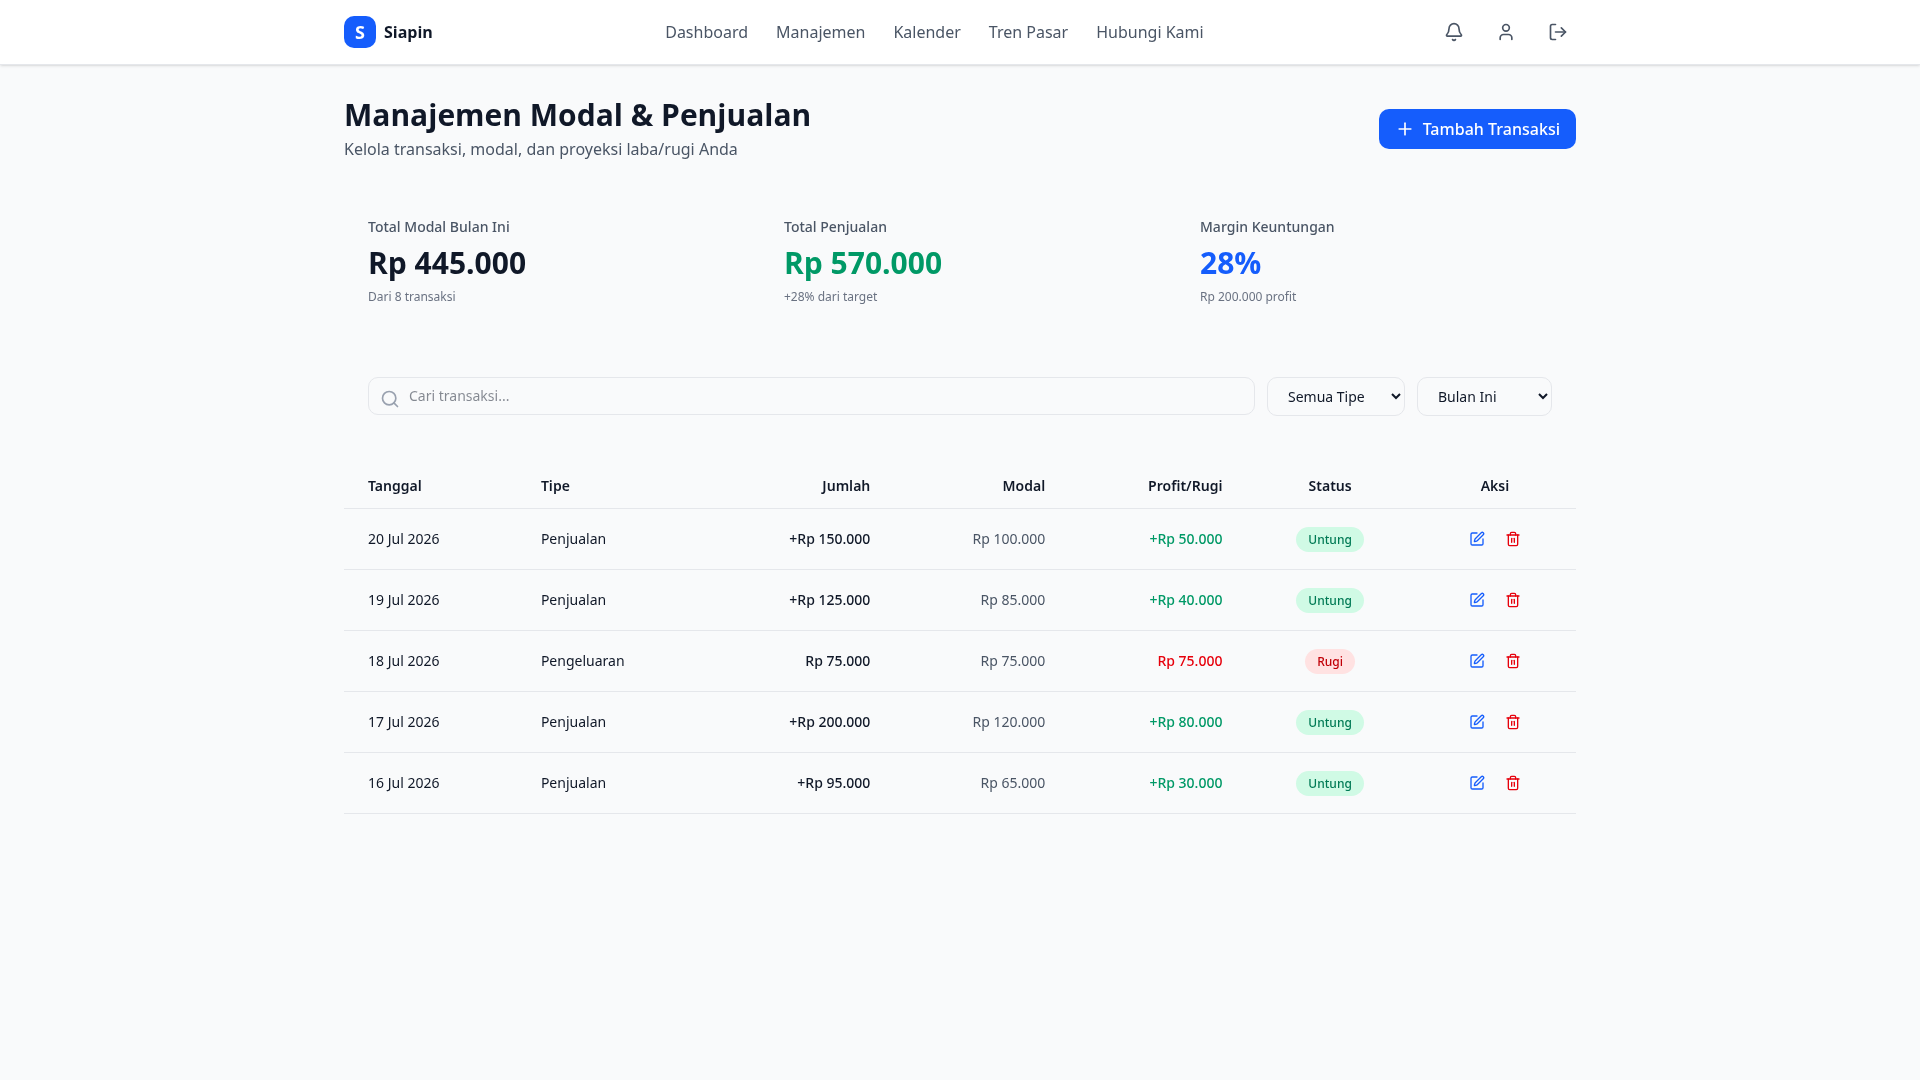
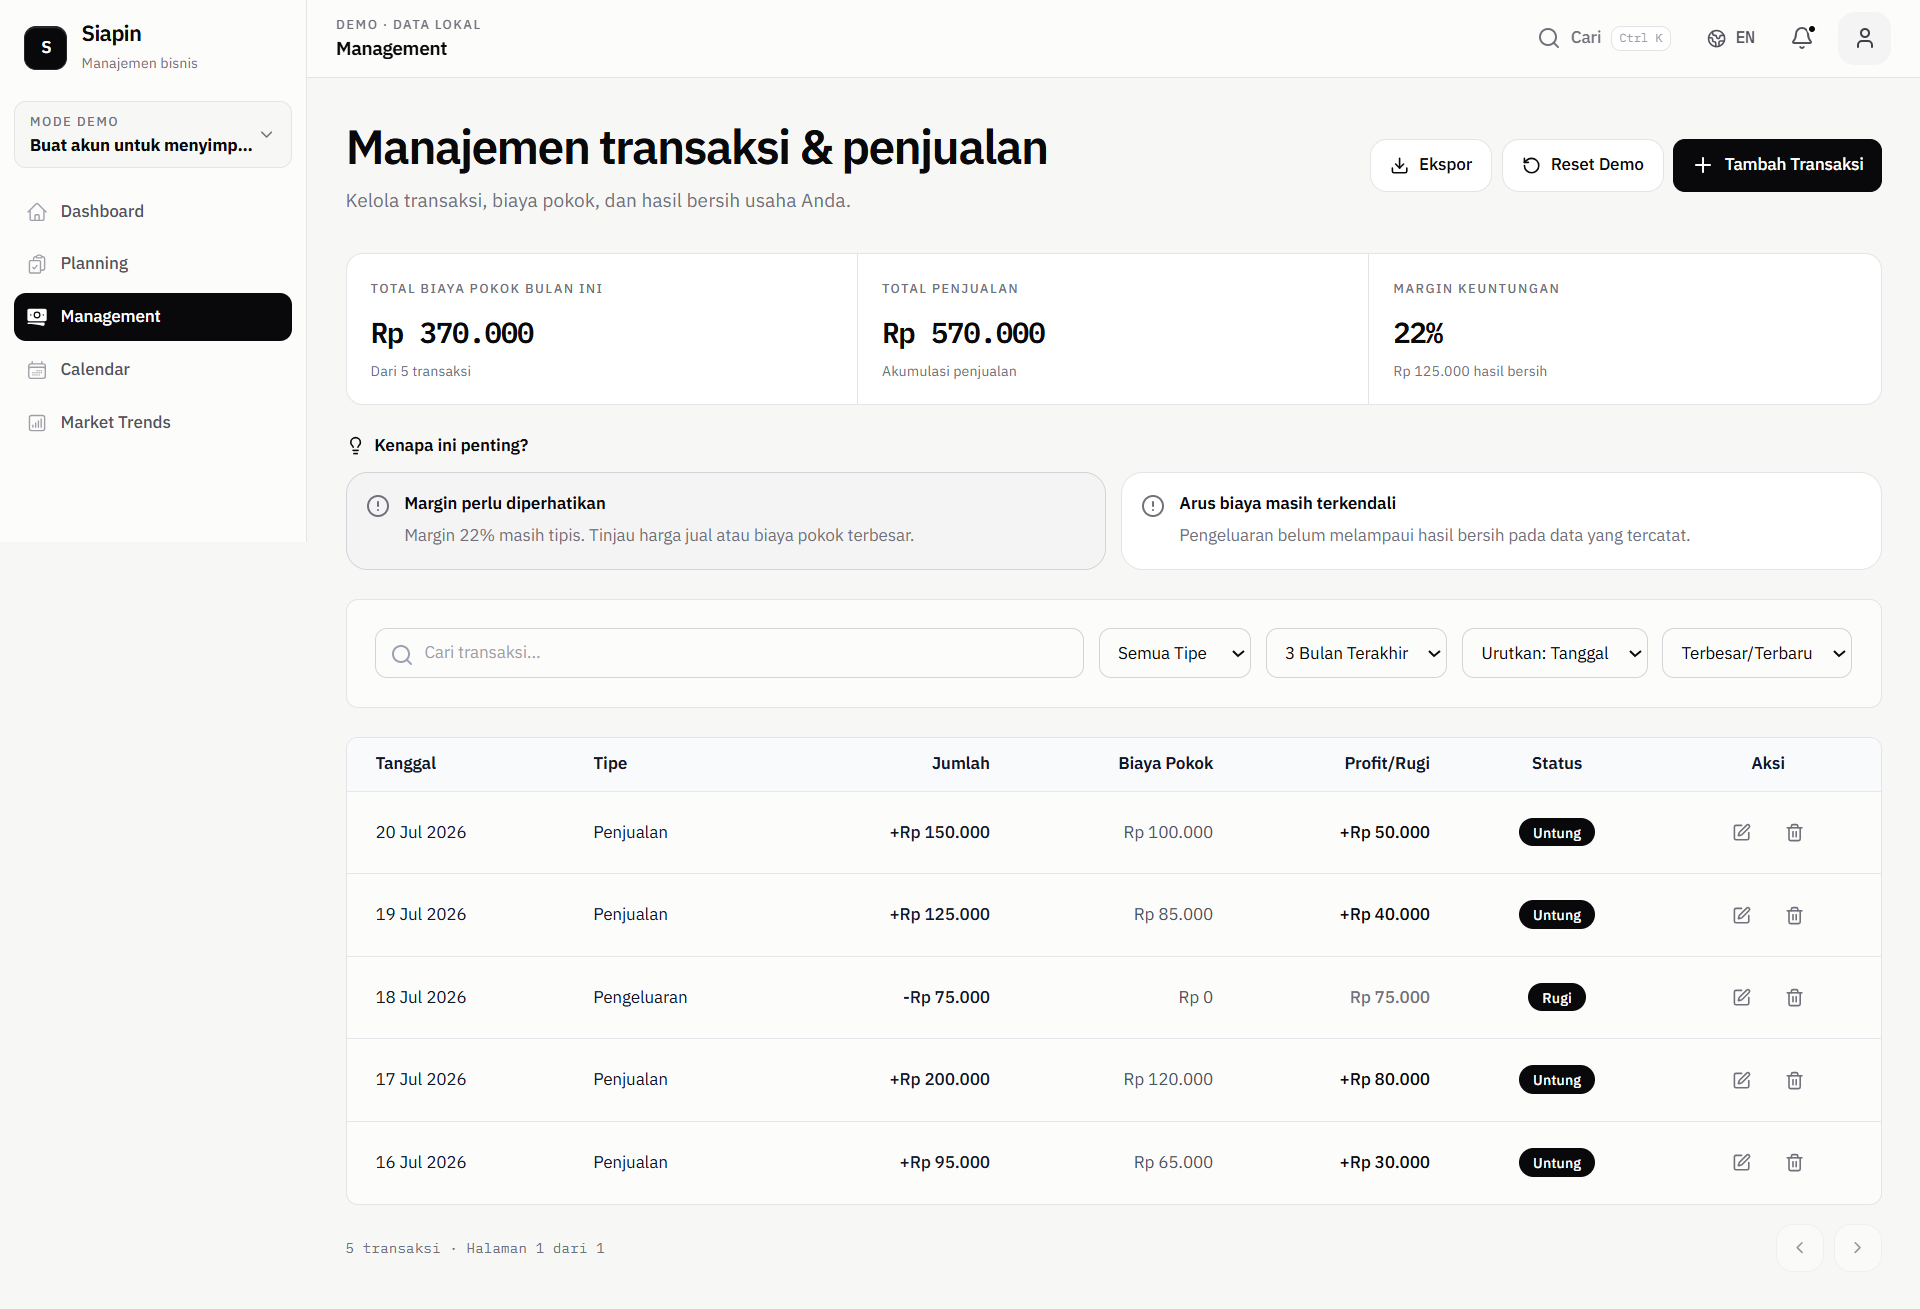
docs(screenshots): update desktop captures for dashboard, calendar, management and add market trends, planning
Replace desktop-dashboard.png, desktop-kalender.png, desktop-manajemen.png
with new captures and add desktop-market-trends.png + desktop-planning.png.
Update README.md screenshots table to display 6 images (landing + 5 updated).

diff --git a/README.md b/README.md
@@ -87,7 +87,7 @@ You do not need to be a developer to contribute. Better words, clearer docs, bug
 | **Planning loop**              | Create plans, goals, initiatives, action items, measurable targets, actual results, and business reviews |
 | **Money**                      | Record simple transactions and link them to goals                                                        |
 | **Calendar & more**            | Calendar, notifications, profile, community posts, and a curated portfolio of finished reviews           |
-| **Safety**                     | PostgreSQL (Supabase) with Row Level Security on your workspace cannot see another workspace's data       |
+| **Safety**                     | PostgreSQL (Supabase) with Row Level Security on your workspace cannot see another workspace's data      |
 | **Quality**                    | Unit tests, database security contracts, and Playwright end-to-end tests                                 |
 
 What is next is tracked honestly in [ROADMAP.md](./ROADMAP.md) and [Product Direction](./docs/PRODUCT_DIRECTION.md).
@@ -100,6 +100,10 @@ What is next is tracked honestly in [ROADMAP.md](./ROADMAP.md) and [Product Dire
 | --------------------------------- | ------------------------------------- | -------------------------------------- | ----------------------------------- |
 | ![Landing](./desktop-landing.png) | ![Dashboard](./desktop-dashboard.png) | ![Management](./desktop-manajemen.png) | ![Calendar](./desktop-kalender.png) |
 
+| Market Trends                                 | Planning                            |
+| --------------------------------------------- | ----------------------------------- |
+| ![Market Trends](./desktop-market-trends.png) | ![Planning](./desktop-planning.png) |
+
 Mobile is also supported for same pages, adapted for small screens.
 
 ---
@@ -109,6 +113,7 @@ Mobile is also supported for same pages, adapted for small screens.
 This is the full setup, start to end. No step is skipped.
 
 ### 1. What you need before you start
+
 - **Node.js 22.13 or newer**: check with `node -v`
 - **Git**
 - **pnpm** via Corepack (comes with Node.js): check with `pnpm -v`
